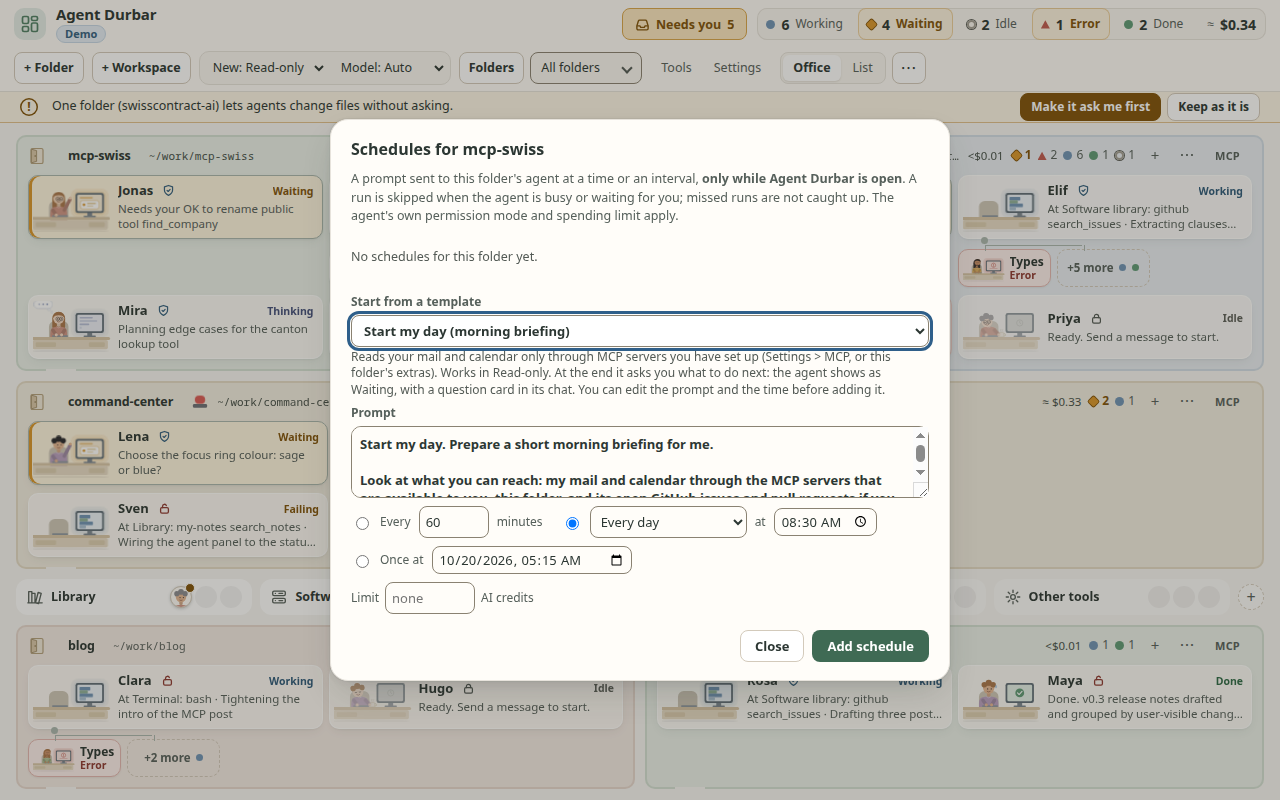
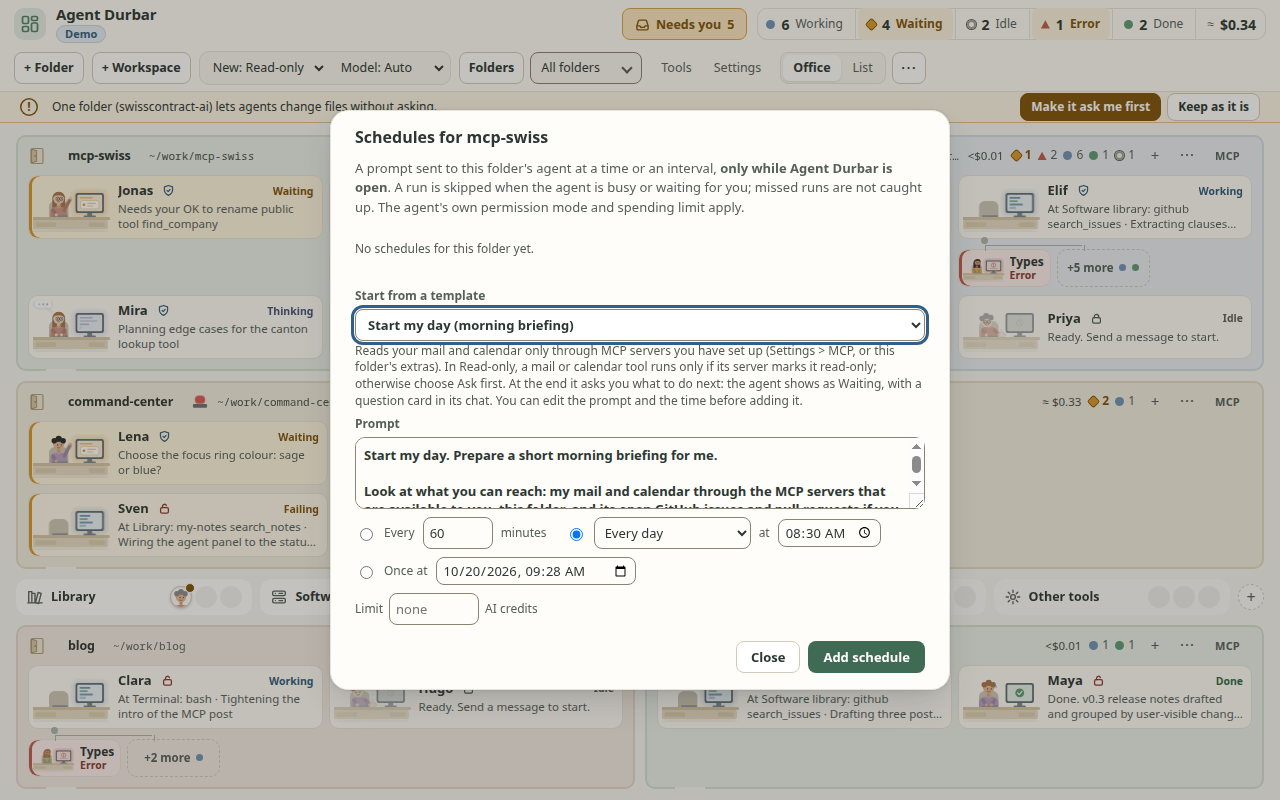
044: Read-only wording follows the real MCP check (Start my day, mode help)

diff --git a/src/renderer/schedtemplates.js b/src/renderer/schedtemplates.js
@@ -11,7 +11,7 @@
   const DECIDE='When the summary is ready, ask me with your tool for asking the user a question (a multiple-choice question with your suggested next steps as the options, several can be chosen, plus "none"). Then do only what I chose, one step at a time; anything that sends, posts or changes something still needs my approval. If you have no such tool, end with the numbered suggestions and wait for my reply.';
   const TEMPLATES=[
     {id:'start-my-day',name:'Start my day (morning briefing)',daily:'08:30',
-     needs:'Reads your mail and calendar only through MCP servers you have set up (Settings > MCP, or this folder\'s extras). Works in Read-only.',
+     needs:'Reads your mail and calendar only through MCP servers you have set up (Settings > MCP, or this folder\'s extras). In Read-only, a mail or calendar tool runs only if its server marks it read-only; otherwise choose Ask first.',
      prompt:'Start my day. Prepare a short morning briefing for me.\n\nLook at what you can reach: my mail and calendar through the MCP servers that are available to you, this folder, and its open GitHub issues and pull requests if you can read them. Cover the last 24 hours and at most 50 mail threads.\n\nReply with these sections, most urgent first, each item one line with its source link:\n1. Needs my reply\n2. Waiting on others\n3. Blocked\n4. Due today (meetings, deadlines)\n5. Suggested next steps (drafts or tasks I could approve)\n\nIf a source is not available, say which one in one line. '+UNTRUSTED+'\n\n'+DECIDE,decides:true},
     {id:'summarize-my-day',name:'Summarize my day',daily:'18:00',
      needs:'Works in Read-only.',

diff --git a/src/renderer/app.js b/src/renderer/app.js
@@ -1802,7 +1802,7 @@ const MODE_NAME={'read-only':'Read-only','ask':'Ask first','allow':'Allow all'};
 const MODE_TEXT={'read-only':'read-only','allow':'no prompts','ask':'asks first'};
 /* spec 052 FR-077: one short line per mode in the menu; the full explanation stays in its title */
 const MODE_SHORT={'read-only':"Can't change files; read-only tools still run",'ask':'Asks before each change or command','allow':'Never asks: edits, commands, web'}; /* spec 052 FR-093: one line each, but accurate (full help in the title) */
-const MODE_HELP={'read-only':'Reads only. Edits, commands and other changes are denied (read-only MCP tools still run).','ask':'Asks before every edit or command. You can approve for the rest of the session.','allow':'Everything runs without asking: edits, shell commands, web requests and tools.'};
+const MODE_HELP={'read-only':'Reads only. Edits, commands and other changes are denied. An MCP tool runs only if its server marks it read-only.','ask':'Asks before every edit or command. You can approve for the rest of the session.','allow':'Everything runs without asking: edits, shell commands, web requests and tools.'};
 /* spec 012 FR-123: the agent kind's own name in agent-facing text; Copilot's wording is unchanged */
 const KIND_WORD={copilot:'Copilot',claude:'Claude Code',codex:'Codex'};
 const kindWord=id=>{const k=id||'copilot';if(KIND_WORD[k])return KIND_WORD[k];const d=(KINDS||[]).find(x=>x.id===k);return d&&d.displayName?d.displayName:k;};

diff --git a/specs/044-scheduled-prompts/spec.md b/specs/044-scheduled-prompts/spec.md
@@ -172,4 +172,5 @@ The mode help says "read-only MCP tools still run" (spec 052 FR-019), and the *S
   - **Tool marked `readOnlyHint: true`:** it **ran**. The runtime sent **no permission request** to Durbar (the broker saw nothing); the server received the call and the agent answered with its result.
   - **The same tool without `readOnlyHint`:** the runtime sent a permission request of kind **`mcp`**; Durbar's broker **denied** it ("Agent Durbar is in read-only mode: this action was denied"); the server received nothing.
 - **Result:** on Copilot the help text is right, and *Start my day* works in Read-only **only if the mail and calendar servers mark their read tools `readOnlyHint`**; a server that does not is denied. The runtime decides from the server's own hint, so a server that wrongly marks a writing tool read-only also runs in Read-only (`[KNOWN GAP]`, for spec 003).
-- `[KNOWN GAP]` Not checked on Claude Code or Codex, and not with real mail or calendar servers. The template text is unchanged; its wording is for the owner to decide.
+- `[KNOWN GAP]` Not checked on Claude Code or Codex, and not with real mail or calendar servers.
+- **Wording fixed (2026-10-20, FR-019a):** *Start my day* now says "In Read-only, a mail or calendar tool runs only if its server marks it read-only; otherwise choose Ask first." The Read-only mode help (spec 052 FR-019) now says "An MCP tool runs only if its server marks it read-only." That is an upper bound for all three apps: Claude Code and Codex send every MCP call to the broker as kind `mcp`, and Read-only denies it (read: `claudeModes.ts`, `codexModes.ts`, broker). It promises nothing that was not seen. test: `test:schedules` (templates still load) sim: `shots-044-templates`.

diff --git a/CHANGELOG.md b/CHANGELOG.md
@@ -4,6 +4,7 @@ Agent Durbar is an alpha. Builds are unsigned and have only been run by hand on 
 
 ## Unreleased (on `main`, after the alpha.9 tag)
 
+- Read-only wording matches what was seen: *Start my day* and the Read-only help now say an MCP tool runs in Read-only only if its server marks it read-only; otherwise choose Ask first (spec 044).
 - Real-account checks (2026-10-20, about 1 AI credit and $0.004): the Copilot AI theme maker now reads token names written without `--` (Copilot wrote them that way, so every theme failed); remote control that Copilot answers "not started" is no longer shown as on; Copilot's refused-sign-in error at Send is now recognised; a folder's `.claude` hooks and `.mcp.json` confirmed not to run in Claude; read-only MCP tools confirmed to run in Read-only on Copilot (specs 012, 040, 044, 054).
 - Idea research: issues #128, #130, #131, #132 and #289 answered with recommendations; a draft spec 057 (briefing follow-through: safe mail reads and proposed actions in the inbox) and a research note in spec 048 (most of the office assistant is already covered by specs 041, 052 and 054). Specs only, no code.
 - Sign-in is checked with the service where the app allows it (Copilot: GitHub quota; Codex: OpenAI rate limits; Claude Code: local only), and a chat message refused because of the sign-in shows a calm card with **Sign in** and **Send again** instead of the raw 401 (spec 012 FR-156, FR-157; fakes and simulator, not yet on real accounts).

diff --git a/specs/044-scheduled-prompts/tasks.md b/specs/044-scheduled-prompts/tasks.md
@@ -29,3 +29,7 @@
 - [x] T035 Renderer: calendar choice, Send to, Limit, row states, the agent's own schedules (read-only) [FR-012, FR-014..FR-016]
 - [x] T036 Simulator: rules, targets, caps and pause states [FR-018]
 - [x] T037 Docs: README, CHANGELOG, specs index; drivers updated for the new form [all]
+
+## 2026-10-20: Read-only wording after the real MCP check
+
+- [x] T040 *Start my day* and the Read-only mode help say an MCP tool runs in Read-only only when its server marks it read-only [FR-019a]
